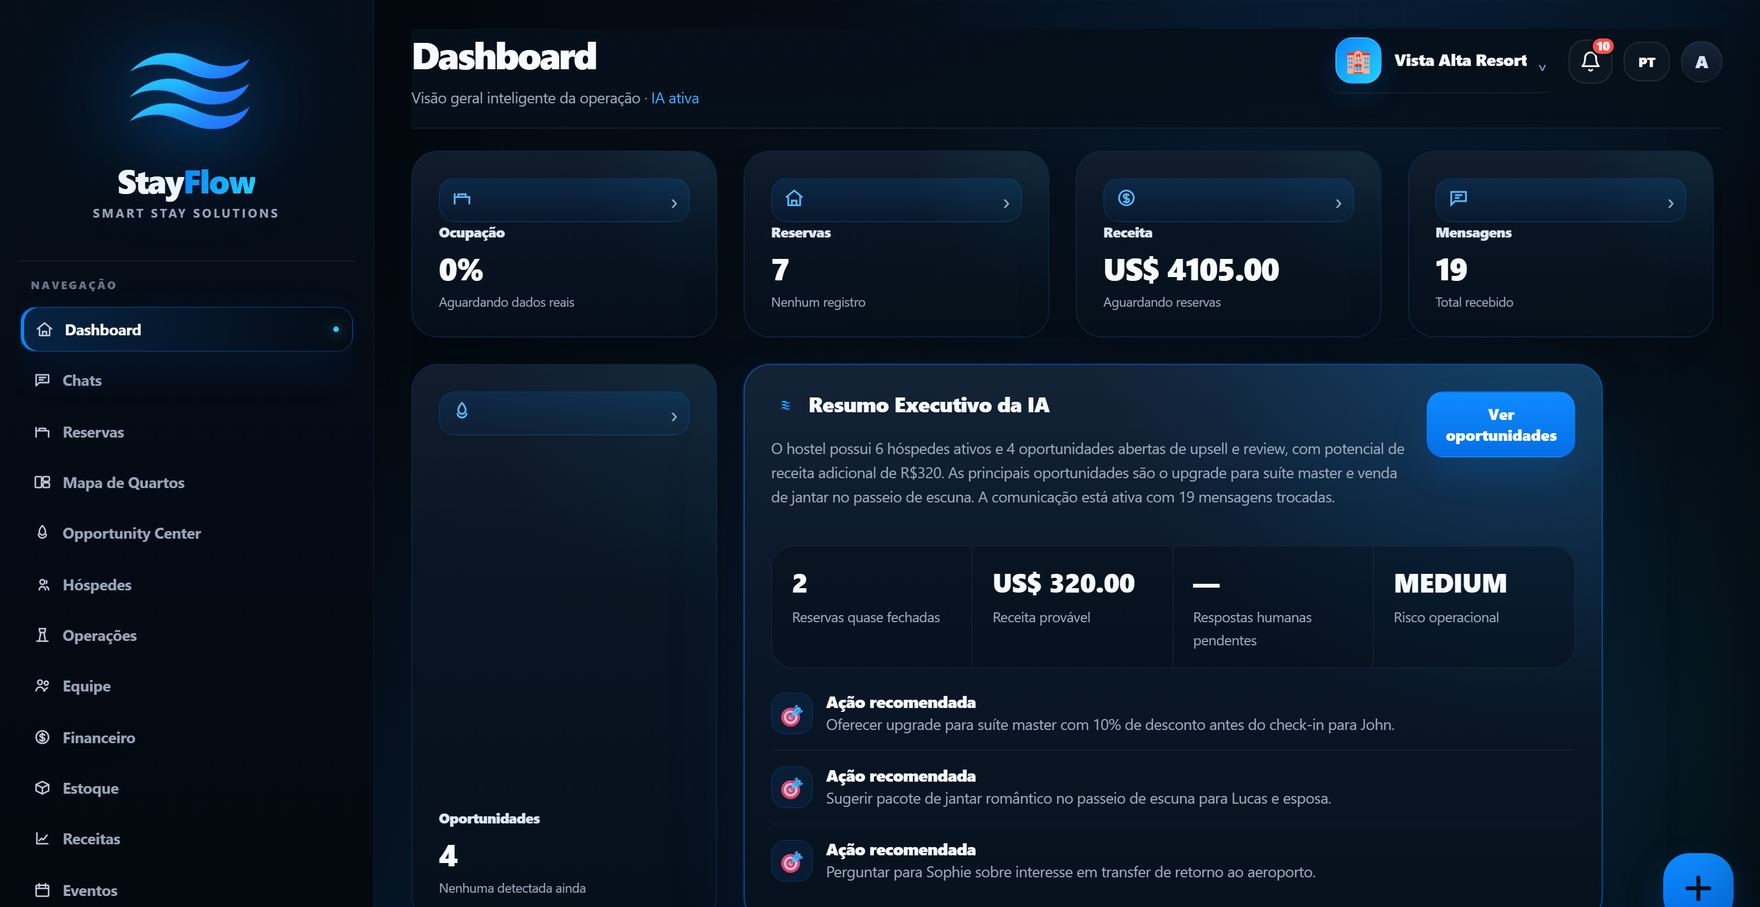
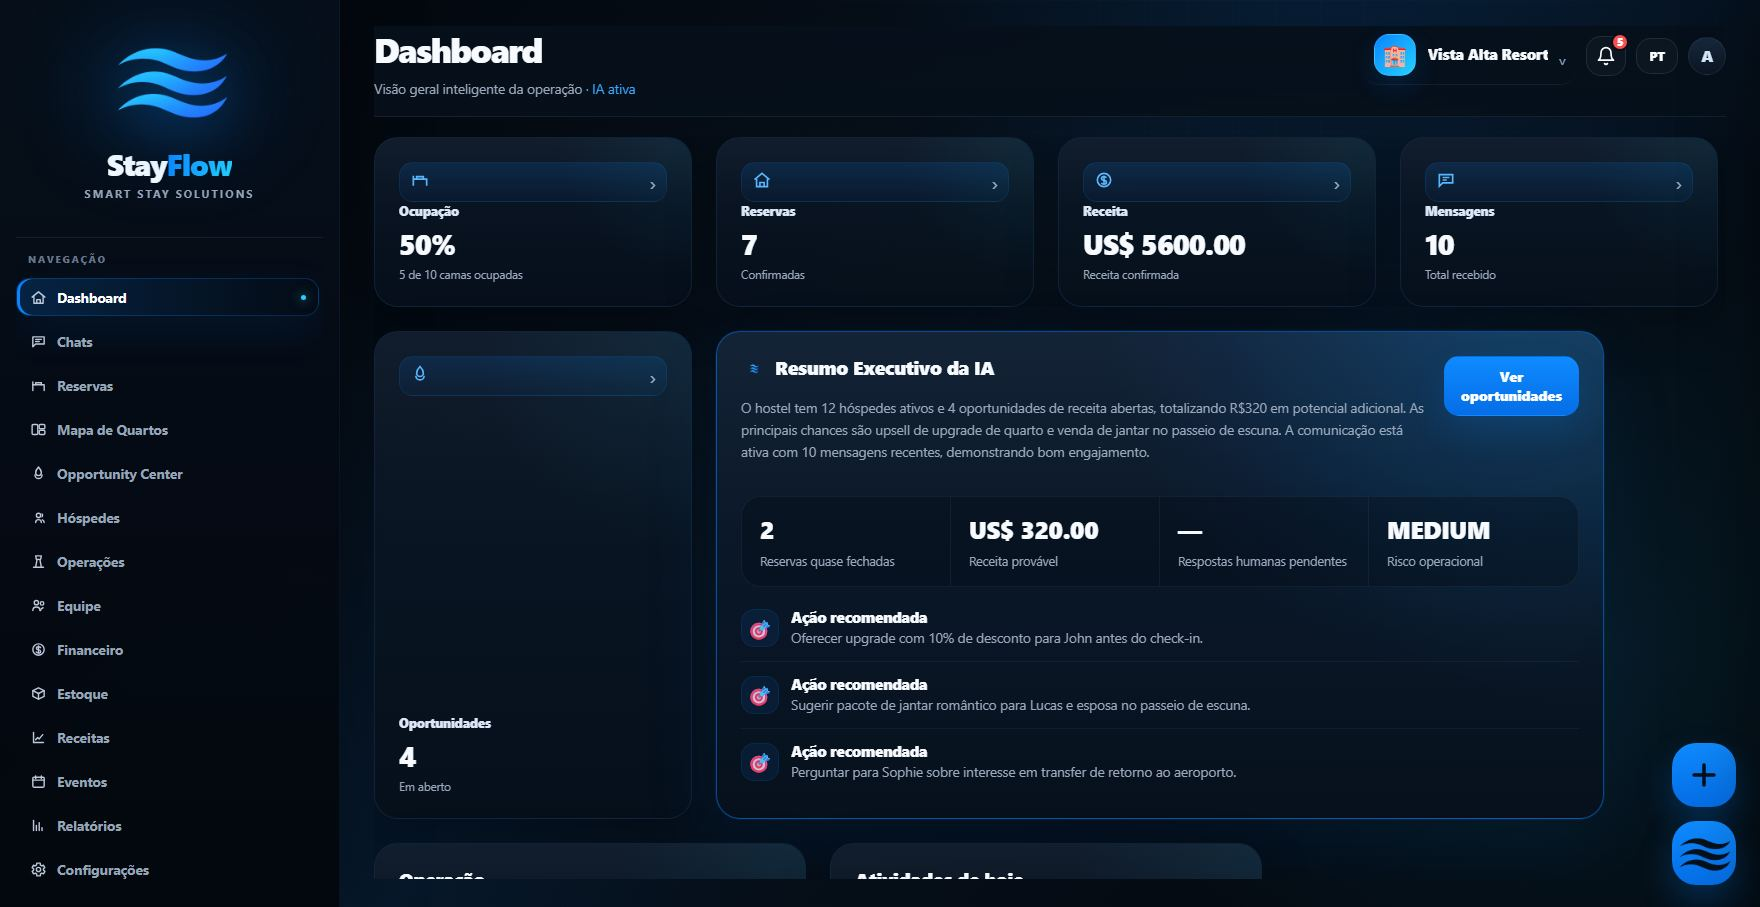
Corrige KPIs do Dashboard nunca ligados a dado real (Ocupacao, Reservas, Receita, Oportunidades)
Achado ao investigar por que o slide "Dashboard" da landing page
mostrava Ocupacao "0% - Aguardando dados reais": o card nunca tinha
sido ligado a nenhum calculo, era texto fixo no HTML desde sempre - bug
real do produto, nao so do print, afeta qualquer hospedagem que usa o
sistema hoje.

- get_dashboard_stats (database.py): adiciona ocupacao real (camas
  occupied/needs_cleaning sobre o total, mesmo criterio ja usado no
  mapa de quartos), contagem de reservas confirmadas e receita
  confirmada (mesma logica simplificada do primeiro bloco de
  get_finance_summary).
- loadDashboardStats() (dashboard.html): popula os 4 cards
  (Ocupacao/Reservas/Receita/Oportunidades) com valor e nota reais em
  vez de deixar os placeholders "0%"/"Nenhum registro"/"Aguardando
  reservas"/"Nenhuma detectada ainda" congelados.
- assets/images/product/dashboard.jpg: novo print do slide, gerado com
  uma hospedagem de demonstracao nova ("Vista Alta Resort", dados
  antigos de sessao anterior nao estavam mais disponiveis) mostrando os
  4 KPIs corretos e o Resumo Executivo da IA completo.

diff --git a/StayFlow---Site/dashboard.html b/StayFlow---Site/dashboard.html
@@ -4395,6 +4395,31 @@ async function loadDashboardStats(){
     const msgNote = kpiMessages?.closest(".card")?.querySelector(".note");
     if(msgNote) msgNote.textContent = stats.messages ? T('home.kpi.messagesNoteReceived', 'Total recebido') : T('home.kpi.messagesNoteEmpty', 'Nenhuma conversa recebida');
 
+    const kpiOccupancy = document.getElementById("kpiOccupancy");
+    if(kpiOccupancy) kpiOccupancy.textContent = `${stats.occupancy_pct ?? 0}%`;
+
+    const occNote = kpiOccupancy?.closest(".card")?.querySelector(".note");
+    if(occNote){
+      occNote.textContent = stats.beds_total
+        ? T('home.kpi.occupancyNoteReal', '{occupied} de {total} camas ocupadas', { occupied: stats.beds_occupied ?? 0, total: stats.beds_total })
+        : T('home.kpi.occupancyNote', 'Aguardando dados reais');
+    }
+
+    const kpiReservations = document.getElementById("kpiReservations");
+    if(kpiReservations) kpiReservations.textContent = String(stats.reservations ?? 0);
+    const resNote = kpiReservations?.closest(".card")?.querySelector(".note");
+    if(resNote) resNote.textContent = stats.reservations ? T('home.kpi.reservationsNoteConfirmed', 'Confirmadas') : T('home.kpi.reservationsNote', 'Nenhum registro');
+
+    const kpiRevenue = document.getElementById("kpiRevenue");
+    if(kpiRevenue) kpiRevenue.textContent = formatMoney(stats.revenue ?? 0);
+    const revNote = kpiRevenue?.closest(".card")?.querySelector(".note");
+    if(revNote) revNote.textContent = stats.revenue ? T('home.kpi.revenueNoteConfirmed', 'Receita confirmada') : T('home.kpi.revenueNote', 'Aguardando reservas');
+
+    const kpiOpportunities = document.getElementById("kpiOpportunities");
+    if(kpiOpportunities) kpiOpportunities.textContent = String(stats.opportunities ?? 0);
+    const oppNote = kpiOpportunities?.closest(".card")?.querySelector(".note");
+    if(oppNote) oppNote.textContent = stats.opportunities ? T('home.kpi.opportunitiesNoteActive', 'Em aberto') : T('home.kpi.opportunitiesNote', 'Nenhuma detectada ainda');
+
   }catch(e){
     console.warn("Erro ao carregar /dashboard:", e);
   }

diff --git a/database.py b/database.py
@@ -4039,6 +4039,34 @@ def get_dashboard_stats(hostel_id):
     conn = get_connection()
     cursor = conn.cursor()
 
+    # Ocupacao real = status da cama (mesmo criterio ja usado no mapa de
+    # quartos, get_bed_map) - occupied/needs_cleaning conta como ocupada,
+    # ja que a cama so fica limpa de novo depois do proximo check-in.
+    cursor.execute("SELECT COUNT(*) AS total FROM beds WHERE hostel_id = ?", (hostel_id,))
+    beds_total = cursor.fetchone()["total"]
+    cursor.execute(
+        "SELECT COUNT(*) AS total FROM beds WHERE hostel_id = ? AND status IN ('occupied', 'needs_cleaning')",
+        (hostel_id,)
+    )
+    beds_occupied = cursor.fetchone()["total"]
+    occupancy_pct = round(100 * beds_occupied / beds_total) if beds_total else 0
+
+    # Mesmo criterio de receita confirmada ja usado no primeiro bloco de
+    # get_finance_summary (reserva confirmada = amount, exceto estadia
+    # indefinida que nao tem valor fechado) - versao simplificada so pra
+    # KPI rapido do Dashboard, o Financeiro continua sendo a fonte
+    # completa (cambio, eventos, guest_charges etc.).
+    cursor.execute(
+        "SELECT COUNT(*) AS total FROM reservations WHERE hostel_id = ? AND status = 'confirmed'",
+        (hostel_id,)
+    )
+    reservations_count = cursor.fetchone()["total"]
+    cursor.execute(
+        "SELECT COALESCE(SUM(amount), 0) AS total FROM reservations WHERE hostel_id = ? AND status = 'confirmed' AND stay_type != 'indefinite'",
+        (hostel_id,)
+    )
+    revenue = cursor.fetchone()["total"]
+
     cursor.execute(
         "SELECT COUNT(*) AS total FROM guests WHERE hostel_id = ?",
         (hostel_id,)
@@ -4095,7 +4123,12 @@ def get_dashboard_stats(hostel_id):
             "guests": guests,
             "messages": messages,
             "leads": leads,
-            "opportunities": opportunities
+            "opportunities": opportunities,
+            "occupancy_pct": occupancy_pct,
+            "beds_occupied": beds_occupied,
+            "beds_total": beds_total,
+            "reservations": reservations_count,
+            "revenue": revenue
         },
         "recent_leads": recent_leads,
         "recent_messages": recent_messages
